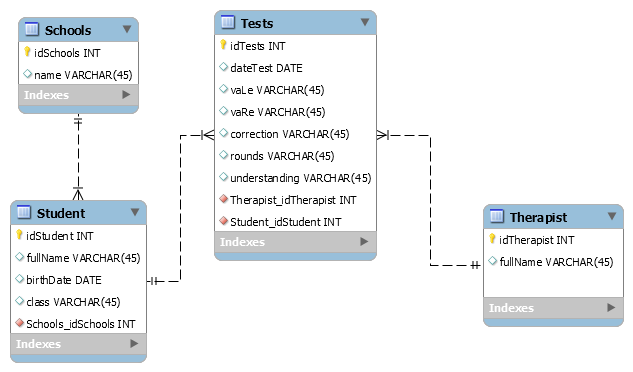
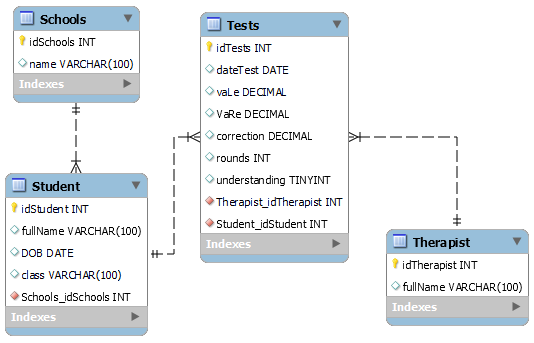
Reorder columns in StartGame page, handle columns size. Update DataModel.png with right data types.

Changed region(s): [[0.0, 0.0, 0.839, 0.9913], [0.6891, 0.5248, 1.0, 0.9621], [0.839, 0.4373, 0.8689, 0.4665]]

diff --git a/src/components/StudentsList.js b/src/components/StudentsList.js
@@ -41,14 +41,14 @@ export function StudentsList(){
                 <tr>
                     {theadData.map(heading => {
                         switch(heading) {
-                            case "fullName":   return <th key={"fullName"}>Full name</th>;
-                            case "dob":   return <th key={"dob"}>DOB</th>;
-                            case "class":   return <th key={"class"}>Class</th>;
+                            case "fullName":   return <th style={{width: "20%"}} key={"fullName"}>Full name</th>;
+                            case "dob":   return <th style={{width: "10%"}} key={"dob"}>DOB</th>;
+                            case "class":   return <th style={{width: "10%"}} key={"class"}>Class</th>;
                             case "idSchool":   return <th style={{width: "20%"}} key={"idSchool"}>School</th>;
-                            case "localIdSchool":   return <th key={"localIdSchool"}>School</th>;
+                            case "localIdSchool":   return <th style={{width: "20%"}} key={"localIdSchool"}>School</th>;
                             default: return}
                     })}
-                    <th key={"dateTest"}>Date of last test</th>
+                    <th key={"dateTest"} style={{width: "10%"}}>Date of last test</th>
                     <th key={"vaRe"}>Last  vaRe</th>
                     <th key={"vaLe"}>Last  vaLe</th>
                     <th key={"button"} style={{width: "10%"}}/>
@@ -59,16 +59,16 @@ export function StudentsList(){
                     return <tr key={index}>
                         {theadData.map((key, index) => {
                             switch(key) {
-                                case "fullName":   return  <td key={index}>{row[key]}</td>;
-                                case "dob": return <td key={index}>{row[key]}</td>;
-                                case "class":   return  <td key={index}>{row[key]}</td>;
+                                case "fullName":   return  <td style={{width: "20%"}} key={index}>{row[key]}</td>;
+                                case "dob": return <td style={{width: "10%"}} key={index}>{row[key]}</td>;
+                                case "class":   return  <td style={{width: "10%"}} key={index}>{row[key]}</td>;
                                 case "idSchool":   return <td style={{width: "20%"}} key={index}>{getSchoolNameFromLS(row)}</td>
-                                case "localIdSchool":   return <td key={index}>{getSchoolNameFromLS(row)}</td>
+                                case "localIdSchool":   return <td style={{width: "20%"}} key={index}>{getSchoolNameFromLS(row)}</td>
                                 default: return}
                         })}
-                        <td key={"dateTest"} >TODO: {moment(Date.now()).format('YYYY-MM-DD')}</td>
-                        <td key={"vaRe"} style={{width: "10%"}}>TODO</td>
-                        <td key={"vaLe"} style={{width: "10%"}}>TODO</td>
+                        <td key={"dateTest"} style={{width: "10%"}} >TODO: {moment(Date.now()).format('YYYY-MM-DD')}</td>
+                        <td key={"vaRe"} >TODO</td>
+                        <td key={"vaLe"} >TODO</td>
                         <td key={"button"} style={{width: "10%"}}><button className="btn btn-primary"
                                                             onClick={() => {
                                                                 localStorage.setItem(LS_STUDENT, JSON.stringify(row));

diff --git a/src/components/OpenXlsFile.js b/src/components/OpenXlsFile.js
@@ -1,5 +1,6 @@
 import * as XLSX from 'xlsx';
 import {LS_NEW_SCHOOLS, LS_NEW_STUDENTS, LS_SCHOOLS} from "../views/App";
+import moment from "moment";
 
 /**
  * Upload an Excel file to tab NewStudent in local storage
@@ -47,9 +48,9 @@ const promise = new Promise((resolve,reject)=>{
 
             const student = {
                 localId: Math.round(Date.now() / 1000)+i.toString(),
+                class: classNum,
                 fullName: data[i].__EMPTY_6,
-                dob: dateObj,
-                class: classNum
+                dob: moment(dateObj).format('YYYY-MM-DD')
             }
             studentsToAdd = [...studentsToAdd,student]
         }
@@ -61,7 +62,7 @@ const promise = new Promise((resolve,reject)=>{
         if (school !== undefined){
             for (let i = 0; i < studentsToAdd.length; i++) {
                 if (studentsToAdd[i].idSchool == undefined) {
-                    studentsToAdd[i] = {...studentsToAdd[i], idSchool: school.id};
+                    studentsToAdd[i] = {idSchool: school.id, ...studentsToAdd[i]};
                 }
             }
         } else {
@@ -69,7 +70,7 @@ const promise = new Promise((resolve,reject)=>{
             localStorage.setItem(LS_NEW_SCHOOLS,JSON.stringify([...lsNewSchools,{name: schoolName, localId: localIdSchool}]));
             for (let i = 0; i < studentsToAdd.length; i++) {
                 if (studentsToAdd[i].idSchool == undefined) {
-                    studentsToAdd[i] = {...studentsToAdd[i], localIdSchool: localIdSchool};
+                    studentsToAdd[i] = {localIdSchool: localIdSchool, ...studentsToAdd[i]};
                 }
             }
         }

diff --git a/src/config/InitFirebase.js b/src/config/InitFirebase.js
@@ -60,10 +60,10 @@ export async function getAllStudents(){
             const student = doc.data();
             const dob = student.dob.toDate();
             const completeStudent = {
-                fullName: student.fullName,
-                dob: moment(dob).format('YYYY-MM-DD'),
+                idSchool: student.idSchool,
                 class: student.class,
-                idSchool: student.idSchool
+                fullName: student.fullName,
+                dob: moment(dob).format('YYYY-MM-DD')
                 };
             const studentWithId = { ...completeStudent, id: doc.id}
             students.push(studentWithId);

diff --git a/src/views/StartGame.js b/src/views/StartGame.js
@@ -20,7 +20,7 @@ export function StartGame(){
                         <Input  label='Upload' type="file" name="file" id="xlsxClassList"  onChange={(e)=>{
                             const file = e.target.files[0];
                             OpenXlsFile(file);
-                            window.location.reload();
+                            //window.location.reload();
                             window.alert("File "+file.name.toString()+" uploaded")
                         }}/>
                     </Col>
